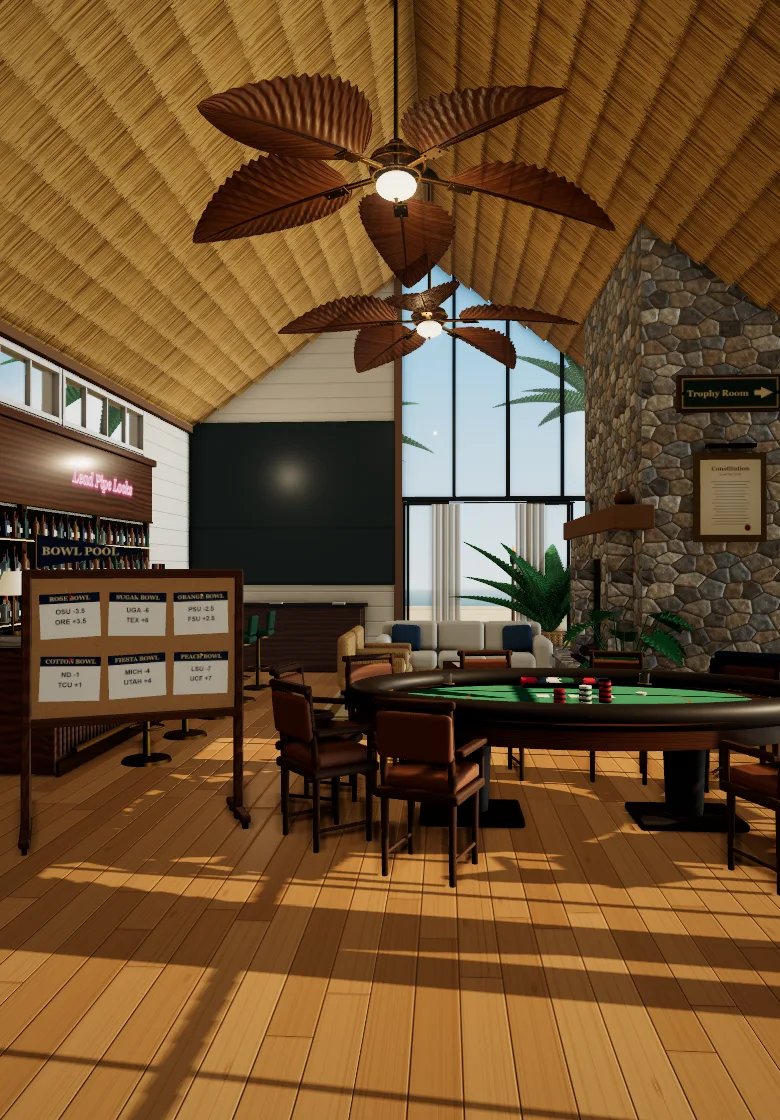
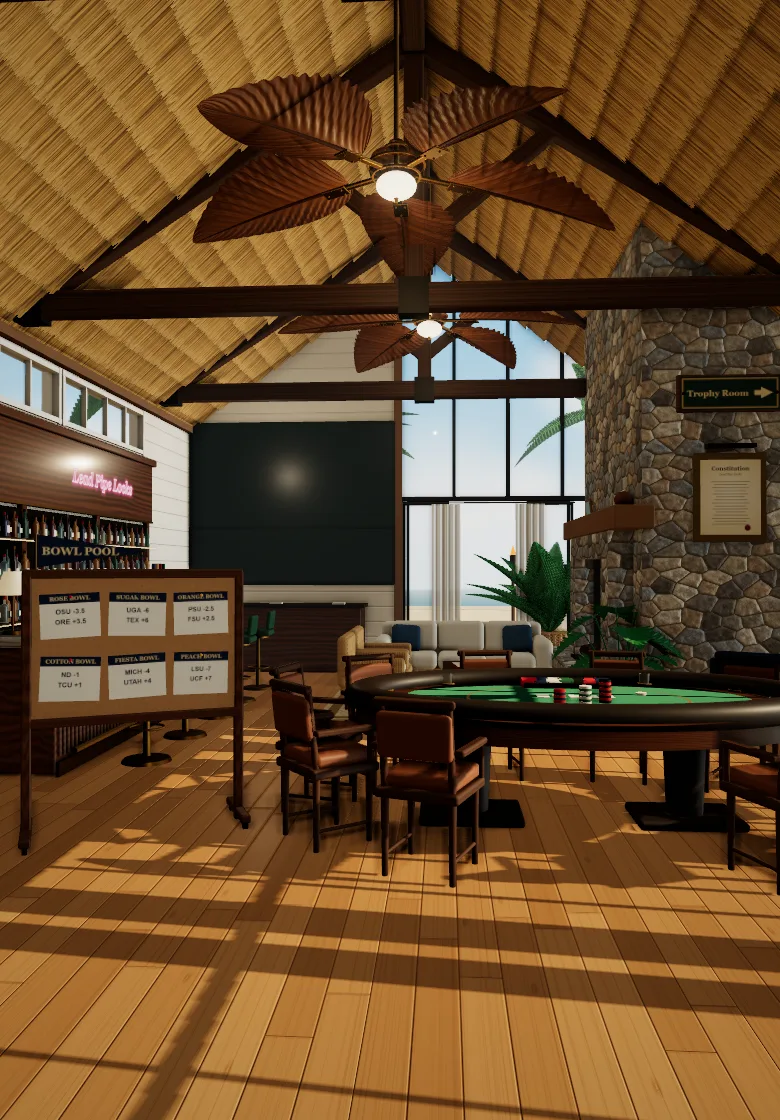
Lab clubhouse room: timber trusses and a ridge beam up high

diff --git a/tools/clubhouse-room/room.js b/tools/clubhouse-room/room.js
@@ -1,7 +1,7 @@
 // The clubhouse: a grand beach bungalow and the ultimate man cave, seen at eye level from just inside the front, looking down the room. Nothing
 // in it is turned to the camera by a trick: what has to be read hangs on the wall that faces you, and the side walls carry the
 // things that look right in perspective.
-//  - Ceiling: natural beach-hut thatch laid in courses, no beams, two big palm-leaf fans down the middle.
+//  - Ceiling: natural beach-hut thatch laid in courses, three dark timber trusses and a ridge beam up high, two big palm-leaf fans.
 //  - Back wall, left: where picks are made, face on: the Big Board, one wide board of spreads under it, the counter. No sign.
 //  - Back wall, right: glass to the thatch, the sliding doors standing open onto the pool patio, palms, tiki torches and the sea.
 //  - Side walls: full of windows (four tall on the right, three tall at the front left and a clerestory strip over the bar); the
@@ -189,6 +189,30 @@ export async function buildRoom(q) {
     course.quaternion.setFromRotationMatrix(new THREE.Matrix4().makeBasis(along, rise, new THREE.Vector3().crossVectors(along, rise)));
     room.add(course);
   }
+  // Up high, three timber trusses span the room under the thatch, with a ridge beam along the top: dark-stained, eased edges, black
+  // iron straps at the joints. Each is a tie beam across the room at the top of the walls, rafters following the roof, a king post up
+  // the middle and two braces. They stand clear of the fans and above the boards.
+  const beamWood = new THREE.MeshStandardMaterial({ map: (() => { const c = canvas(256, 64), g = c.getContext("2d"); g.fillStyle = "#4a2f1c"; g.fillRect(0, 0, 256, 64); for (let i = 0; i < 70; i++) { g.strokeStyle = `rgba(${rand() < 0.5 ? "30,18,10" : "110,74,44"},${0.15 + rand() * 0.2})`; g.lineWidth = 1 + rand() * 2; const y = rand() * 64; g.beginPath(); g.moveTo(0, y); g.bezierCurveTo(80, y + (rand() - 0.5) * 6, 170, y + (rand() - 0.5) * 6, 256, y); g.stroke(); } return texture(c); })(), roughness: 0.62 });
+  const strap = std(0x1a1714, { roughness: 0.5, metalness: 0.5 });
+  const beam = (from, to, w, h) => {
+    const a = new THREE.Vector3(...from), b = new THREE.Vector3(...to), mid = a.clone().add(b).multiplyScalar(0.5), len = a.distanceTo(b);
+    const mesh = add(room, rbox(len, h, w, 0.025), beamWood, [mid.x, mid.y, mid.z]);
+    mesh.quaternion.setFromUnitVectors(new THREE.Vector3(1, 0, 0), b.clone().sub(a).normalize());
+    return mesh;
+  };
+  const TIE = WH + 0.18, under = 0.16;                                                                                                  // rafters sit just under the thatch
+  for (const z of [-2.6, -7.3, -11.6]) {
+    const right = z < -8 && z > -11.8 ? X1 - 1.8 : X1;                                                                                 // the tie beam meets the chimney where it stands
+    beam([X0, TIE, z], [right, TIE, z], 0.2, 0.26);
+    const peak = RIDGE - under - 0.12;
+    for (const side of [-1, 1]) beam([side * (RW / 2), WH + 0.05, z], [0, peak, z], 0.18, 0.22);
+    beam([0, TIE + 0.13, z], [0, peak, z], 0.18, 0.2);                                                                                  // king post
+    for (const side of [-1, 1]) beam([0, TIE + 0.5, z], [side * 1.55, TIE + 0.13 + (RIDGE - WH) * (1 - 1.55 / (RW / 2)) - 0.25, z], 0.14, 0.16);
+    for (const x of [X0 + 0.3, X1 - 0.3, 0]) if (x <= right - 0.2) add(room, box(0.3, 0.36, 0.22), strap, [x, TIE, z], { cast: false });
+    add(room, box(0.24, 0.24, 0.2), strap, [0, peak - 0.05, z], { cast: false });
+  }
+  beam([0, RIDGE - under - 0.12, -0.1], [0, RIDGE - under - 0.12, ZB + 0.1], 0.22, 0.28);                                          // ridge beam
+
   // Cabana fans: two big ones down the middle of the room. Each blade is a modelled palm leaf (pleated, scalloped at the edge,
   // keeled along its rib) carried on a cast brass iron; a turned timber housing banded in brass, a frosted light under it.
   const { leaf, rib } = palmBlade();

diff --git a/docs/VIEW_STATES.md b/docs/VIEW_STATES.md
@@ -157,7 +157,7 @@ Shot as the chat element alone, at phone 390 and desktop 1280, day and night. Fo
 | "Notifications on this phone" on Notifications (every player): `off`, `on`, `blocked`, `iphone-tab` (an iPhone browser tab, told to add the app to the Home Screen) and `no-support`, day at phone and desktop width, plus `on` at night; behavior tests follow the taps (turn on: permission, key, save; test; turn off) and show the section to a player who is not the Commissioner too (`phone-notifications.visual.spec.ts`) | `/profile` |
 | In-app "Turn on notifications" banner (Home Screen app, signed in, notifications not on yet): `offer` day at phone and desktop, night at phone, and `on` after one tap; behavior tests: one tap asks the phone and saves it, a "no" says where to turn them on later, Not now keeps it away after reopening, and no banner in a browser tab, when already on, when blocked, on Notifications, or before sign-in (`notifications-banner.visual.spec.ts`) | any page in the app |
 | Workshop Lab (`/admin/workshop/lab`, Commissioner only): the Showroom and Lab tabs (Lab green), one line "Try-outs before they reach players. Nothing here changes the pool.", a shelf of try-out chips (Tote board, Pad skins, Clubhouse, Survivor table, Feel test; the choice kept in `?try=` and on this device), then the chosen try-out (shot here with the Feel test); the whole page, phone and desktop, day and night (`workshop.visual.spec.ts`); a player sees only "Commissioner only." and the tabs, and the Showroom and Lab tabs lead to each other (`haptic-feel-test.visual.spec.ts`) | `/admin/workshop/lab` as the Commissioner |
-| Lab try-out, Clubhouse: the whole pool as one grand beach bungalow, phone first, sample league only. **The room** is a 3D picture (rendered by `tools/clubhouse-room`; by day, and at night with the pool lit) seen from standing eye level just inside, looking down the room. Its two screens are live: the page draws on them, in perspective, the Big Board's standings (the top five, and you if further down, you highlighted) and this week's lines with your own picks lit; nobody else's unstarted pick is shown; what has to be read hangs on the wall that faces the viewer, nothing is turned to the camera by a trick. The room is lit as a real one is (late sun raking through the glass and across the oak floor, soft shadow wherever two things meet, the room reflected in its own brass and floor), and there is room to walk: in past the poker table, along the bar, round the lounge and out through the open doors. Windows down both side walls (tall ones at the front, a clerestory strip over the bar) let the sun in across the floor. A thatched beach-hut ceiling laid in courses (no beams) with two big palm-leaf fans, each blade a modelled leaf, each with a light; on the back wall, left, where picks are made, face on (the Big Board, under it one board of the week's spreads as wide as the wall in big type, the counter; no sign names it); on its right, glass to the thatch with the sliding doors standing open onto the pool patio, a linen sheer at each side, palms, tiki torches and the sea beyond; down the left wall the bar (a fluted walnut front on a brass kick plate, a marble top, green leather stools on brass, a back bar of walnut and antique mirror with three lit glass shelves of real bottles, glassware on the back counter and the neon above; plaques along its front, the laptop on top; the record book lies open on the lounge table); on the right a grand fieldstone chimney floor to thatch (the fire lit at night, laid but cold by day) with a painted Trophy Room sign fixed to its near face, its arrow pointing on past the fire, and the constitution framed under it; the lounge in front of the fire (a sofa, two cane armchairs, a low table) set clear of the aisle; forward in the middle, well clear of the fire, a long oval Survivor poker table built as a real one is (a padded leather armrest round a walnut racetrack, felt with a gilt betting line, two pedestals, the dealer's chip tray at the far side) with a proper poker chair for every player (ten: four legs, a padded leather seat and back, wooden arms), a hand dealt to each; and from Dec 7 the Bowl Pool's bulletin board on wheels at the left, beside the end of the bar and clear of the poker table, the bowl games pinned up as cards. The wall boards meet evenly at the corners. A tap spot (never smaller than 44px) lies over each: the picks wall opens the Window, the Big Board the Big Board, the Trophy Room sign the Trophy Room, the plaques on the bar the Plaques, the poker table the Survivor table; the record book, laptop (pool chat), constitution and Bowl Pool board open stand-ins for now. Only the Window, the Big Board ("Earl leads · You: T2") and Survivor ("5 of 10 still in · You're in"), and the Bowl Pool board, carry a label with a line of news; "Show labels" names everything. The laptop shows a mail sign when there's a new message; the picks wall glows while a pick is owed. Under the picture, the rooms as a plain list. **Your ticket** is pinned to the bottom of every clubhouse screen but the Window: a lamp per pick (lit once it is in) and the next deadline; it opens the Window. Every room has one "Back to Clubhouse" button and its name at the top. **Trophy Room:** exactly today's Trophy Room page without its stats: the turning table (its arrows turn it) and the banners of the trophy at the front, with the sample champions. **Plaques:** a quiet engraved brass plaque per season, the season countdown plate, and A champion is crowned. Pictures: the room (as it opens, with labels, from Dec 7, all picks in with nothing new), the Big Board, the Window, the Trophy Room and the Plaques' two scenes, phone and desktop by day, phone at night; behaviour tests: every spot opens its room and comes back, spots are thumb-sized, the labels, the live boards (standings with you highlighted, your picks lit on the spreads), mail sign, Bowl Pool board and room list, the pinned ticket; the Trophy Room's table turns by its arrows, hangs the front trophy's champions and shows nothing else, the plaques and pennant (`lab.visual.spec.ts`); data rules in `test/lab-clubhouse.test.mjs` | `/admin/workshop/lab?try=clubhouse` |
+| Lab try-out, Clubhouse: the whole pool as one grand beach bungalow, phone first, sample league only. **The room** is a 3D picture (rendered by `tools/clubhouse-room`; by day, and at night with the pool lit) seen from standing eye level just inside, looking down the room. Its two screens are live: the page draws on them, in perspective, the Big Board's standings (the top five, and you if further down, you highlighted) and this week's lines with your own picks lit; nobody else's unstarted pick is shown; what has to be read hangs on the wall that faces the viewer, nothing is turned to the camera by a trick. The room is lit as a real one is (late sun raking through the glass and across the oak floor, soft shadow wherever two things meet, the room reflected in its own brass and floor), and there is room to walk: in past the poker table, along the bar, round the lounge and out through the open doors. Windows down both side walls (tall ones at the front, a clerestory strip over the bar) let the sun in across the floor. A thatched beach-hut ceiling laid in courses, with three dark timber trusses and a ridge beam spanning the room up high, with two big palm-leaf fans, each blade a modelled leaf, each with a light; on the back wall, left, where picks are made, face on (the Big Board, under it one board of the week's spreads as wide as the wall in big type, the counter; no sign names it); on its right, glass to the thatch with the sliding doors standing open onto the pool patio, a linen sheer at each side, palms, tiki torches and the sea beyond; down the left wall the bar (a fluted walnut front on a brass kick plate, a marble top, green leather stools on brass, a back bar of walnut and antique mirror with three lit glass shelves of real bottles, glassware on the back counter and the neon above; plaques along its front, the laptop on top; the record book lies open on the lounge table); on the right a grand fieldstone chimney floor to thatch (the fire lit at night, laid but cold by day) with a painted Trophy Room sign fixed to its near face, its arrow pointing on past the fire, and the constitution framed under it; the lounge in front of the fire (a sofa, two cane armchairs, a low table) set clear of the aisle; forward in the middle, well clear of the fire, a long oval Survivor poker table built as a real one is (a padded leather armrest round a walnut racetrack, felt with a gilt betting line, two pedestals, the dealer's chip tray at the far side) with a proper poker chair for every player (ten: four legs, a padded leather seat and back, wooden arms), a hand dealt to each; and from Dec 7 the Bowl Pool's bulletin board on wheels at the left, beside the end of the bar and clear of the poker table, the bowl games pinned up as cards. The wall boards meet evenly at the corners. A tap spot (never smaller than 44px) lies over each: the picks wall opens the Window, the Big Board the Big Board, the Trophy Room sign the Trophy Room, the plaques on the bar the Plaques, the poker table the Survivor table; the record book, laptop (pool chat), constitution and Bowl Pool board open stand-ins for now. Only the Window, the Big Board ("Earl leads · You: T2") and Survivor ("5 of 10 still in · You're in"), and the Bowl Pool board, carry a label with a line of news; "Show labels" names everything. The laptop shows a mail sign when there's a new message; the picks wall glows while a pick is owed. Under the picture, the rooms as a plain list. **Your ticket** is pinned to the bottom of every clubhouse screen but the Window: a lamp per pick (lit once it is in) and the next deadline; it opens the Window. Every room has one "Back to Clubhouse" button and its name at the top. **Trophy Room:** exactly today's Trophy Room page without its stats: the turning table (its arrows turn it) and the banners of the trophy at the front, with the sample champions. **Plaques:** a quiet engraved brass plaque per season, the season countdown plate, and A champion is crowned. Pictures: the room (as it opens, with labels, from Dec 7, all picks in with nothing new), the Big Board, the Window, the Trophy Room and the Plaques' two scenes, phone and desktop by day, phone at night; behaviour tests: every spot opens its room and comes back, spots are thumb-sized, the labels, the live boards (standings with you highlighted, your picks lit on the spreads), mail sign, Bowl Pool board and room list, the pinned ticket; the Trophy Room's table turns by its arrows, hangs the front trophy's champions and shows nothing else, the plaques and pennant (`lab.visual.spec.ts`); data rules in `test/lab-clubhouse.test.mjs` | `/admin/workshop/lab?try=clubhouse` |
 | Lab Lamp-lit switch (on the shelf, remembered on this device): at night the try-outs sit under one warm lamp (a pool of light from above with no visible edge, shadow around it, one warm paper tone, a glow on the felt and the clubhouse rooms); by day it only shows a note that it is a night look; Survivor table, Clubhouse and Pad skins, night, phone and desktop (`lab.visual.spec.ts`) | `/admin/workshop/lab` with Lamp-lit on |
 | Lab try-out, Survivor table (rebuilt to show everything the Survivor list shows): a week stepper (weeks 1 to 12, then Playoffs) and Before kickoff / Game day / Graded. The felt: AFC and NFC (side by side on a computer, stacked on a phone), each with its four divisions in the same order (East, North, South, West) and the division names in one column, so rows line up straight across; this week's chips (players' initials) on the teams taken; a losing box swept once graded; "6 of 10 alive"; a one-line key. Before kickoff another player's chip is face down on their seat, never on a team, and a player who has not picked shows NO PICK YET. Seats in standings order, dark once out with "OUT · WK n · TEAM"; the champion's seat crowned in week 12 ("Earl wins Survivor"); in the playoffs the felt is cleared. Tap a seat for every team used. List shows today's Survivor list from the same data. Pictures: week 7 Graded / Before kickoff / Game day, week 3, week 12 champion, playoffs (phone and desktop by day, phone at night) and the seat sheet; behaviour tests for every fact against the list, the champion and playoffs, and the divisions lining up (`lab.visual.spec.ts`) | `/admin/workshop/lab?try=survivor` |
 | Lab try-out, Tote board (first on the shelf): the clubhouse's two main pieces in the racetrack board's housing. **The Big Board** is everyone's picks in one place: today's Pad columns (wins, player, Pick 1, Pick 2; no place) plus a Survivor column of the real poker chips (face down until kickoff, greyed after a loss); each pick panel is team, line and a fixed lamp slot, so every W and L in a column shares one centre line; a pick made but not shown yet is dark lamps and a green IN. One tap on the board turns it to **Season standings** (POS with level players sharing a place, "T2"; player; wins; BACK from the leader): the standings fold into the board. Before kickoff / Game day / Graded. **The Window** is every pick a player makes, in one place: the week's games (two against the spread, a pick framed by a single gilt line), then Survivor's chips on a rack (used teams greyed "USED WK n", kicked-off games locked, one chip at a time), then one ticket (Pick 1, Pick 2, Survivor) and one Submit ("Submitted ✓"; a change afterwards asks to "Submit changes"). Picking / Game day / Out of Survivor (Survivor stays while the pool goes on, read only: "lost in week n", how many are still in) / Survivor decided (Survivor leaves the Window). Pictures: the Big Board before kickoff, on game day, graded and on its season face; the Window in each moment (phone and desktop by day, phone at night); behaviour tests: today's columns, hidden picks and Survivor chips until kickoff, W and L on one centre line, the season face, and the Window's picks, chip, ticket and Submit through every moment (`lab.visual.spec.ts`) | `/admin/workshop/lab?try=tote` |

diff --git a/docs/DECISION_LOG.md b/docs/DECISION_LOG.md
@@ -31,7 +31,9 @@ whether you are) is also in its label, in type big enough to read; a tap still o
 Survivor seats were tried and dropped: at eye level the far side of the table is a thin strip and they piled up. The poker table
 lost its dealt hands (they could not show who is out) and gained cup holders, drinks and a blazer over a chair. At the owner's
 word ("more windows, sunlight and airiness") the side walls are now full of windows (four tall ones on the right, three on the left
-at the front and a clerestory strip high over the bar) and the sun comes in through them, laying the window shapes across the floor.
+at the front and a clerestory strip high over the bar) and the sun comes in through them, laying the window shapes across the floor. And, at the owner's word ("some convincing beams up high"), three dark-stained timber
+trusses (tie beam, rafters, king post and braces, iron straps) and a ridge beam now span the room under the thatch. This
+supersedes the earlier "no beams" verdict, which was about beams in place of thatch; the thatch stays.
 
 ## 2026-11-13 - The clubhouse room made convincing, and laid out to be walked through (Lab)
 
